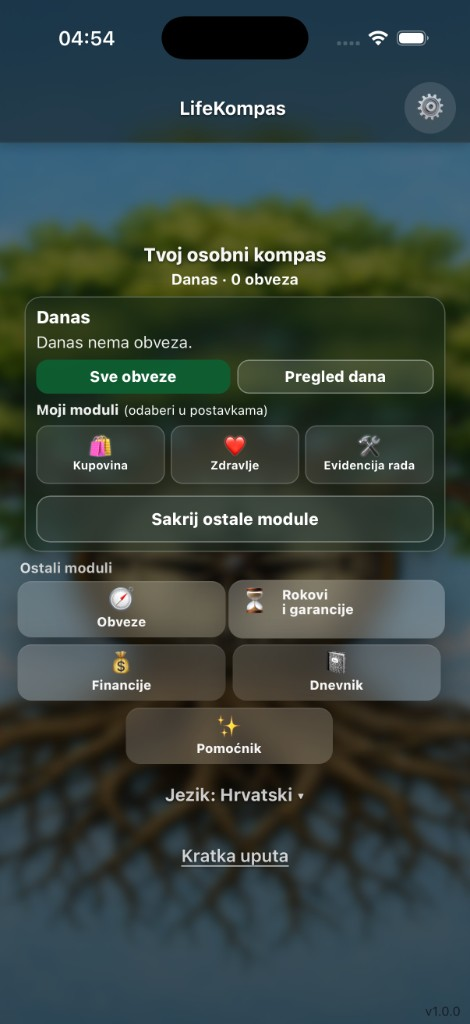
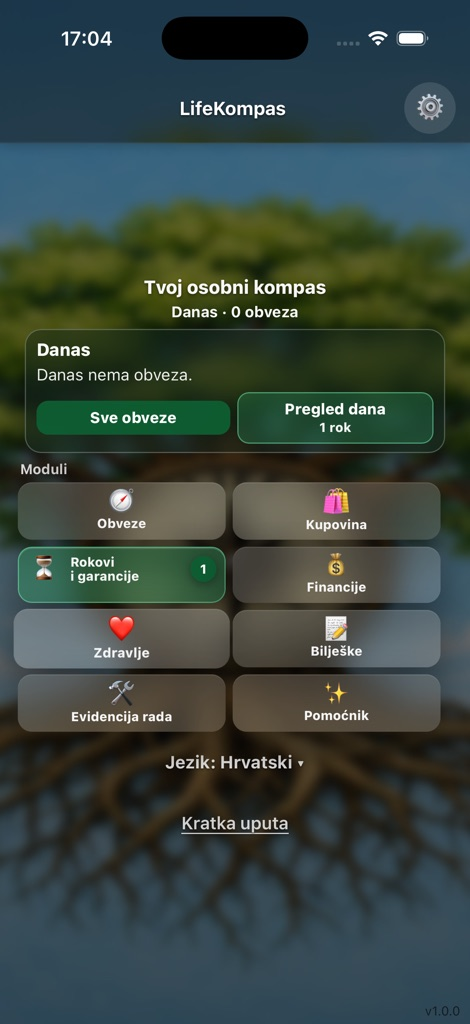
Update marketing home screenshots and replace Diary with Notes.
Aligns the site gallery and privacy/terms copy with the Notes module.

diff --git a/index.html b/index.html
@@ -3,7 +3,7 @@
 <head>
   <meta charset="UTF-8">
   <meta name="viewport" content="width=device-width, initial-scale=1">
-  <meta name="description" content="LifeKompas — offline personal organizer: obligations, shopping, finances, health, diary and more.">
+  <meta name="description" content="LifeKompas — offline personal organizer: obligations, shopping, finances, health, notes and more.">
   <link rel="sitemap" type="application/xml" href="/sitemap.xml">
   <title>LifeKompas</title>
   <style>
@@ -1349,7 +1349,7 @@
         <div class="feature"><span class="feature-icon">⏳</span><span data-i18n="modDeadlines"></span></div>
         <div class="feature"><span class="feature-icon">💰</span><span data-i18n="modFinances"></span></div>
         <div class="feature"><span class="feature-icon">❤</span><span data-i18n="modHealth"></span></div>
-        <div class="feature"><span class="feature-icon">📓</span><span data-i18n="modDiary"></span></div>
+        <div class="feature"><span class="feature-icon">📝</span><span data-i18n="modNotes"></span></div>
         <div class="feature"><span class="feature-icon">🛠</span><span data-i18n="modWorklog"></span></div>
         <div class="feature"><span class="feature-icon">✨</span><span data-i18n="modAssistant"></span></div>
       </div>
@@ -1530,14 +1530,14 @@
         { file: '06-deadlines.png', key: 'shot06' },
         { file: '08-finances.png', key: 'shot08' },
         { file: '10-health.png', key: 'shot10' },
-        { file: '11-diary.png', key: 'shot11' },
+        { file: '11-notes.png', key: 'shot11' },
         { file: '12-worklog.png', key: 'shot12' },
         { file: '14-assistant.png', key: 'shot14' }
       ];
 
       var PACK = {
         en: {
-          metaDescription: 'LifeKompas — offline personal organizer: obligations, shopping, finances, health, diary and more.',
+          metaDescription: 'LifeKompas — offline personal organizer: obligations, shopping, finances, health, notes and more.',
           lightboxDialog: 'Enlarged view',
           lightboxClose: 'Close',
           lightboxCloseLabel: 'Close',
@@ -1563,7 +1563,7 @@
           modDeadlines: 'Deadlines & warranties',
           modFinances: 'Finances',
           modHealth: 'Health',
-          modDiary: 'Diary',
+          modNotes: 'Notes',
           modWorklog: 'Work log',
           modAssistant: 'Assistant',
           heroCta: 'Notify me when it launches',
@@ -1578,7 +1578,7 @@
           pricingFreeItem2: 'Reminders on your device',
           pricingPremiumBadge: 'Premium',
           pricingPremiumTitle: 'All modules',
-          pricingPremiumBody: 'Shopping, deadlines, finances, health, diary, work log, full Assistant, and more.',
+          pricingPremiumBody: 'Shopping, deadlines, finances, health, notes, work log, full Assistant, and more.',
           pricingPremiumItem1: 'Every module unlocked for editing',
           pricingPremiumItem2: 'Full Assistant options',
           pricingPremiumItem3: 'One purchase — monthly, yearly, or lifetime',
@@ -1628,14 +1628,14 @@
           shot08: { title: 'Finances', desc: 'Income, expenses, overview', alt: 'Finances' },
           shot09: { title: 'New entry', desc: 'One-time or recurring', alt: 'New finance entry' },
           shot10: { title: 'Health', desc: 'BP, glucose, weight, medicine', alt: 'Health' },
-          shot11: { title: 'Diary', desc: 'Mood & notes', alt: 'Diary' },
+          shot11: { title: 'Notes', desc: 'Text & optional photo', alt: 'Notes' },
           shot12: { title: 'Work log', desc: 'Hours tracked by month', alt: 'Work log' },
           shot13: { title: 'New entry', desc: 'Date, hours, break', alt: 'New work log entry' },
           shot14: { title: 'Assistant', desc: 'What matters today', alt: 'Assistant' },
           shot15: { title: 'Settings', desc: 'Morning overview & modules', alt: 'Assistant settings' }
         },
         hr: {
-          metaDescription: 'LifeKompas — offline organizator: obveze, kupovina, financije, zdravlje, dnevnik i više.',
+          metaDescription: 'LifeKompas — offline organizator: obveze, kupovina, financije, zdravlje, bilješke i više.',
           lightboxDialog: 'Povećani prikaz',
           lightboxClose: 'Zatvori',
           lightboxCloseLabel: 'Zatvori',
@@ -1661,7 +1661,7 @@
           modDeadlines: 'Rokovi & garancije',
           modFinances: 'Financije',
           modHealth: 'Zdravlje',
-          modDiary: 'Dnevnik',
+          modNotes: 'Bilješke',
           modWorklog: 'Radni dnevnik',
           modAssistant: 'Pomoćnik',
           heroCta: 'Obavijesti me kad izađe',
@@ -1676,7 +1676,7 @@
           pricingFreeItem2: 'Podsjetnici na uređaju',
           pricingPremiumBadge: 'Premium',
           pricingPremiumTitle: 'Svi moduli',
-          pricingPremiumBody: 'Kupovina, rokovi, financije, zdravlje, dnevnik, radni dnevnik, puni Pomoćnik i više.',
+          pricingPremiumBody: 'Kupovina, rokovi, financije, zdravlje, bilješke, radni dnevnik, puni Pomoćnik i više.',
           pricingPremiumItem1: 'Svi moduli otključani za uređivanje',
           pricingPremiumItem2: 'Puni Pomoćnik',
           pricingPremiumItem3: 'Jedna kupnja — mjesečno, godišnje ili doživotno',
@@ -1726,14 +1726,14 @@
           shot08: { title: 'Financije', desc: 'Prihodi, troškovi, pregled', alt: 'Financije' },
           shot09: { title: 'Novi unos', desc: 'Jednokratno ili ponavljajuće', alt: 'Novi financijski unos' },
           shot10: { title: 'Zdravlje', desc: 'TL, šećer, težina, lijekovi', alt: 'Zdravlje' },
-          shot11: { title: 'Dnevnik', desc: 'Raspoloženje & bilješke', alt: 'Dnevnik' },
+          shot11: { title: 'Bilješke', desc: 'Tekst i opcionalna slika', alt: 'Bilješke' },
           shot12: { title: 'Radni dnevnik', desc: 'Sati rada po mjesecu', alt: 'Radni dnevnik' },
           shot13: { title: 'Novi unos', desc: 'Datum, sati, pauza', alt: 'Novi unos radnog dnevnika' },
           shot14: { title: 'Pomoćnik', desc: 'Što je danas važno', alt: 'Pomoćnik' },
           shot15: { title: 'Postavke', desc: 'Jutarnji pregled & moduli', alt: 'Postavke pomoćnika' }
         },
         de: {
-          metaDescription: 'LifeKompas — offline Organizer: Aufgaben, Einkauf, Finanzen, Gesundheit, Tagebuch und mehr.',
+          metaDescription: 'LifeKompas — offline Organizer: Aufgaben, Einkauf, Finanzen, Gesundheit, Notizen und mehr.',
           lightboxDialog: 'Vergrößerte Ansicht',
           lightboxClose: 'Schließen',
           lightboxCloseLabel: 'Schließen',
@@ -1759,7 +1759,7 @@
           modDeadlines: 'Fristen & Garantien',
           modFinances: 'Finanzen',
           modHealth: 'Gesundheit',
-          modDiary: 'Tagebuch',
+          modNotes: 'Notizen',
           modWorklog: 'Arbeitsprotokoll',
           modAssistant: 'Assistent',
           heroCta: 'Benachrichtige mich zum Launch',
@@ -1774,7 +1774,7 @@
           pricingFreeItem2: 'Erinnerungen auf dem Gerät',
           pricingPremiumBadge: 'Premium',
           pricingPremiumTitle: 'Alle Module',
-          pricingPremiumBody: 'Einkauf, Fristen, Finanzen, Gesundheit, Tagebuch, Arbeitsprotokoll, voller Assistent und mehr.',
+          pricingPremiumBody: 'Einkauf, Fristen, Finanzen, Gesundheit, Notizen, Arbeitsprotokoll, voller Assistent und mehr.',
           pricingPremiumItem1: 'Alle Module zum Bearbeiten freigeschaltet',
           pricingPremiumItem2: 'Voller Assistent',
           pricingPremiumItem3: 'Ein Kauf — monatlich, jährlich oder lebenslang',
@@ -1824,7 +1824,7 @@
           shot08: { title: 'Finanzen', desc: 'Einnahmen, Ausgaben, Überblick', alt: 'Finanzen' },
           shot09: { title: 'Neuer Eintrag', desc: 'Einmalig oder wiederkehrend', alt: 'Neuer Finanzeintrag' },
           shot10: { title: 'Gesundheit', desc: 'Blutdruck, Zucker, Gewicht, Medikamente', alt: 'Gesundheit' },
-          shot11: { title: 'Tagebuch', desc: 'Stimmung & Notizen', alt: 'Tagebuch' },
+          shot11: { title: 'Notizen', desc: 'Text & optionales Foto', alt: 'Notizen' },
           shot12: { title: 'Arbeitsprotokoll', desc: 'Stunden pro Monat', alt: 'Arbeitsprotokoll' },
           shot13: { title: 'Neuer Eintrag', desc: 'Datum, Stunden, Pause', alt: 'Neuer Arbeitseintrag' },
           shot14: { title: 'Assistent', desc: 'Was heute wichtig ist', alt: 'Assistent' },

diff --git a/privacy.html b/privacy.html
@@ -32,7 +32,7 @@
   <p>LifeKompas je osobna produktivna aplikacija koju razvija <strong>Antun Damjanović</strong> (Njemačka). Ova pravila objašnjavaju kako aplikacija postupa s podacima.</p>
 
   <h2>2. Načelo: podaci na vašem uređaju</h2>
-  <p>LifeKompas je dizajniran kao aplikacija koja <strong>sprema podatke lokalno</strong> na vašem telefonu ili tabletu (obveze, financije, zdravlje, dnevnik, rokovi i sl.). <strong>Ne prodajemo</strong> vaše podatke i <strong>ne vodimo</strong> centralnu bazu vaših sadržaja na našim serverima.</p>
+  <p>LifeKompas je dizajniran kao aplikacija koja <strong>sprema podatke lokalno</strong> na vašem telefonu ili tabletu (obveze, financije, zdravlje, bilješke, rokovi i sl.). <strong>Ne prodajemo</strong> vaše podatke i <strong>ne vodimo</strong> centralnu bazu vaših sadržaja na našim serverima.</p>
 
   <h2>3. Što aplikacija ne radi</h2>
   <ul>
@@ -45,12 +45,12 @@
   <h2>4. Dozvole uređaja (što danas može tražiti)</h2>
   <ul>
     <li><strong>Obavijesti</strong> – lokalni podsjetnici koje sami uključite (obveze, rođendani, rokovi, pomoćnik).</li>
-    <li><strong>Kamera / galerija</strong> – samo ako dodajete slike (dnevnik, garancije).</li>
+    <li><strong>Kamera / galerija</strong> – samo ako dodajete slike (bilješke, garancije).</li>
   </ul>
   <p>Možete odbiti dozvolu; povezana funkcija tada neće raditi, ostatak app-a može.</p>
 
   <h2>5. Internetska veza</h2>
-  <p>LifeKompas je <strong>primarno offline</strong>. Internetska veza <strong>nije potrebna</strong> za svakodnevno korištenje (obveze, financije, dnevnik i sl.).</p>
+  <p>LifeKompas je <strong>primarno offline</strong>. Internetska veza <strong>nije potrebna</strong> za svakodnevno korištenje (obveze, financije, bilješke i sl.).</p>
   <p>Puni offline podsjetnici (obavijesti koje sami uključite) vrijede za <strong>instaliranu aplikaciju</strong> (iOS/Android). Korištenje u web pregledniku može imati ograničenja.</p>
 
   <h2>6. Sigurnosna kopija i izvoz</h2>
@@ -82,7 +82,7 @@
   <p>LifeKompas is a personal productivity app developed by <strong>Antun Damjanović</strong> (Germany). This policy explains how the app handles data.</p>
 
   <h2>2. Core principle: data on your device</h2>
-  <p>LifeKompas is designed to <strong>store data locally</strong> on your phone or tablet (tasks, finances, health, diary, deadlines, etc.). We <strong>do not sell</strong> your data and we <strong>do not operate</strong> a central database of your content on our servers.</p>
+  <p>LifeKompas is designed to <strong>store data locally</strong> on your phone or tablet (tasks, finances, health, notes, deadlines, etc.). We <strong>do not sell</strong> your data and we <strong>do not operate</strong> a central database of your content on our servers.</p>
 
   <h2>3. What the app does not do</h2>
   <ul>
@@ -95,12 +95,12 @@
   <h2>4. Device permissions (what today’s build may request)</h2>
   <ul>
     <li><strong>Notifications</strong> – local reminders you enable (obligations, birthdays, deadlines, assistant).</li>
-    <li><strong>Camera / photo library</strong> – only when you add images (diary, warranties).</li>
+    <li><strong>Camera / photo library</strong> – only when you add images (notes, warranties).</li>
   </ul>
   <p>You may deny permission; that feature may not work; the rest of the app may still work.</p>
 
   <h2>5. Internet</h2>
-  <p>LifeKompas is <strong>primarily offline</strong>. Internet is <strong>not required</strong> for everyday use (obligations, finances, diary, etc.).</p>
+  <p>LifeKompas is <strong>primarily offline</strong>. Internet is <strong>not required</strong> for everyday use (obligations, finances, notes, etc.).</p>
   <p>Full offline reminders (notifications you enable) apply to the <strong>installed app</strong> (iOS/Android). Use in a web browser may be limited.</p>
 
   <h2>6. Backup and export</h2>
@@ -132,7 +132,7 @@
   <p>LifeKompas ist eine persönliche Produktivitäts-App, entwickelt von <strong>Antun Damjanović</strong> (Deutschland). Diese Erklärung beschreibt, wie die App mit Daten umgeht.</p>
 
   <h2>2. Grundsatz: Daten auf Ihrem Gerät</h2>
-  <p>LifeKompas ist so konzipiert, dass Daten <strong>lokal auf Ihrem Smartphone oder Tablet</strong> gespeichert werden (Aufgaben, Finanzen, Gesundheit, Tagebuch, Fristen usw.). Wir <strong>verkaufen</strong> Ihre Daten <strong>nicht</strong> und betreiben <strong>keine</strong> zentrale Datenbank Ihrer Inhalte auf unseren Servern.</p>
+  <p>LifeKompas ist so konzipiert, dass Daten <strong>lokal auf Ihrem Smartphone oder Tablet</strong> gespeichert werden (Aufgaben, Finanzen, Gesundheit, Notizen, Fristen usw.). Wir <strong>verkaufen</strong> Ihre Daten <strong>nicht</strong> und betreiben <strong>keine</strong> zentrale Datenbank Ihrer Inhalte auf unseren Servern.</p>
 
   <h2>3. Was die App nicht tut</h2>
   <ul>
@@ -145,12 +145,12 @@
   <h2>4. Geräteberechtigungen (was die aktuelle Version anfordern kann)</h2>
   <ul>
     <li><strong>Benachrichtigungen</strong> – lokale Erinnerungen, die Sie selbst aktivieren (Aufgaben, Geburtstage, Fristen, Assistent).</li>
-    <li><strong>Kamera / Fotos</strong> – nur wenn Sie Bilder hinzufügen (Tagebuch, Garantien).</li>
+    <li><strong>Kamera / Fotos</strong> – nur wenn Sie Bilder hinzufügen (Notizen, Garantien).</li>
   </ul>
   <p>Sie können Berechtigungen ablehnen; die jeweilige Funktion funktioniert dann nicht, der Rest der App kann weiterhin nutzbar sein.</p>
 
   <h2>5. Internetverbindung</h2>
-  <p>LifeKompas ist <strong>primär offline</strong>. Für die tägliche Nutzung (Aufgaben, Finanzen, Tagebuch usw.) ist <strong>kein Internet erforderlich</strong>.</p>
+  <p>LifeKompas ist <strong>primär offline</strong>. Für die tägliche Nutzung (Aufgaben, Finanzen, Notizen usw.) ist <strong>kein Internet erforderlich</strong>.</p>
   <p>Vollständige Offline-Erinnerungen (von Ihnen aktivierte Benachrichtigungen) gelten für die <strong>installierte App</strong> (iOS/Android). Die Nutzung im Webbrowser kann eingeschränkt sein.</p>
 
   <h2>6. Sicherung und Export</h2>

diff --git a/terms.html b/terms.html
@@ -32,7 +32,7 @@
   <p>Preuzimanjem, instalacijom ili korištenjem LifeKompasa („Aplikacija”) prihvaćate ove Uvjete. Ako se ne slažete, ne koristite Aplikaciju.</p>
 
   <h2>2. Opis usluge</h2>
-  <p>LifeKompas je osobna produktivna aplikacija (obveze, financije, zdravlje, rokovi, kupovina, dnevnik i dr.). Aplikacija <strong>primarno radi offline</strong> i podatke sprema <strong>lokalno na vaš uređaj</strong>.</p>
+  <p>LifeKompas je osobna produktivna aplikacija (obveze, financije, zdravlje, rokovi, kupovina, bilješke i dr.). Aplikacija <strong>primarno radi offline</strong> i podatke sprema <strong>lokalno na vaš uređaj</strong>.</p>
 
   <h2>3. Dob korisnika</h2>
   <p>Aplikacija je namijenjena korisnicima starijim od <strong>16 godina</strong>, ili mlađima uz suglasnost roditelja/skrbnika prema lokalnom pravu.</p>
@@ -89,7 +89,7 @@
   <p>By downloading, installing, or using LifeKompas (the “App”), you agree to these Terms. If you do not agree, do not use the App.</p>
 
   <h2>2. Description of service</h2>
-  <p>LifeKompas is a personal productivity app (obligations, finances, health, deadlines, shopping, diary, etc.). The App <strong>works primarily offline</strong> and stores data <strong>locally on your device</strong>.</p>
+  <p>LifeKompas is a personal productivity app (obligations, finances, health, deadlines, shopping, notes, etc.). The App <strong>works primarily offline</strong> and stores data <strong>locally on your device</strong>.</p>
 
   <h2>3. Age</h2>
   <p>The App is intended for users aged <strong>16 or older</strong>, or younger users with parental/guardian consent where required by local law.</p>
@@ -146,7 +146,7 @@
   <p>Mit dem Herunterladen, Installieren oder Nutzen von LifeKompas (die „App”) akzeptieren Sie diese Nutzungsbedingungen. Wenn Sie nicht einverstanden sind, nutzen Sie die App nicht.</p>
 
   <h2>2. Beschreibung des Dienstes</h2>
-  <p>LifeKompas ist eine persönliche Produktivitäts-App (Aufgaben, Finanzen, Gesundheit, Fristen, Einkaufsliste, Tagebuch usw.). Die App arbeitet <strong>primär offline</strong> und speichert Daten <strong>lokal auf Ihrem Gerät</strong>.</p>
+  <p>LifeKompas ist eine persönliche Produktivitäts-App (Aufgaben, Finanzen, Gesundheit, Fristen, Einkaufsliste, Notizen usw.). Die App arbeitet <strong>primär offline</strong> und speichert Daten <strong>lokal auf Ihrem Gerät</strong>.</p>
 
   <h2>3. Alter</h2>
   <p>Die App richtet sich an Nutzer ab <strong>16 Jahren</strong> oder an jüngere Nutzer mit Zustimmung der Eltern/Erziehungsberechtigten, sofern das örtliche Recht dies vorsieht.</p>
